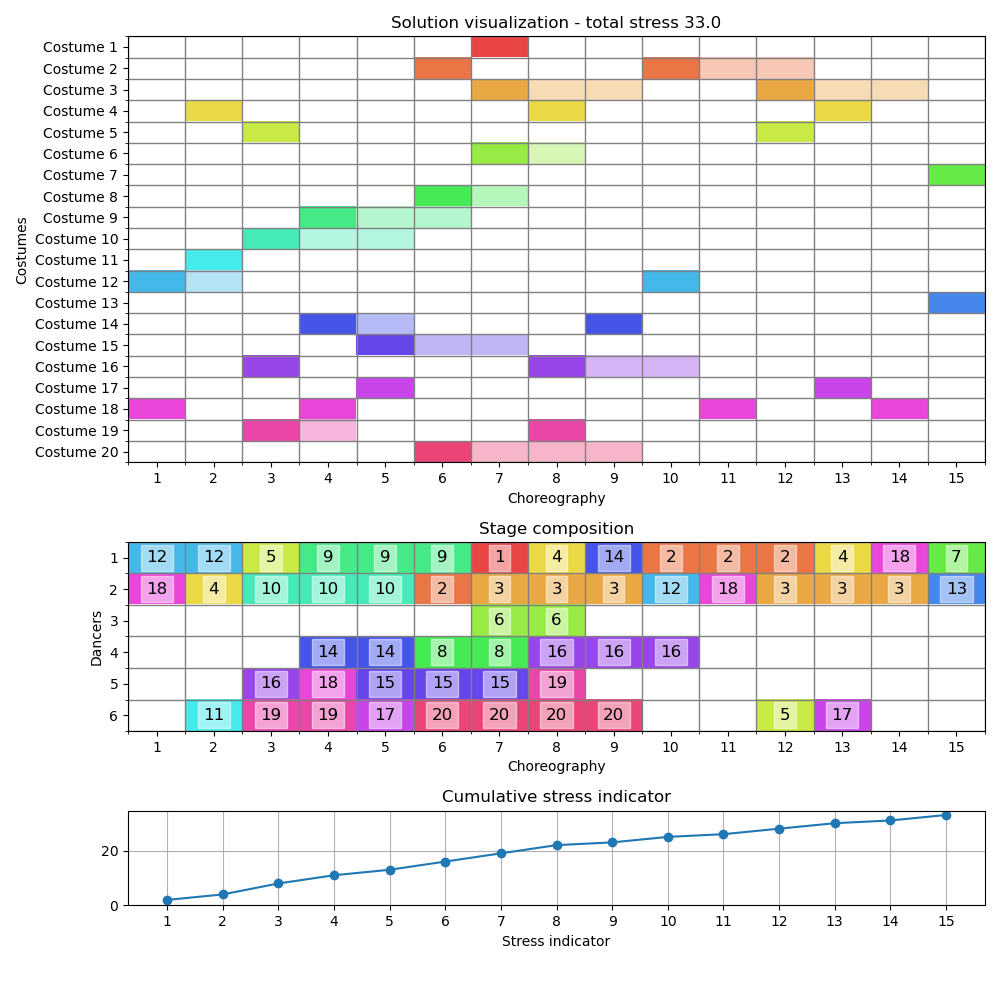
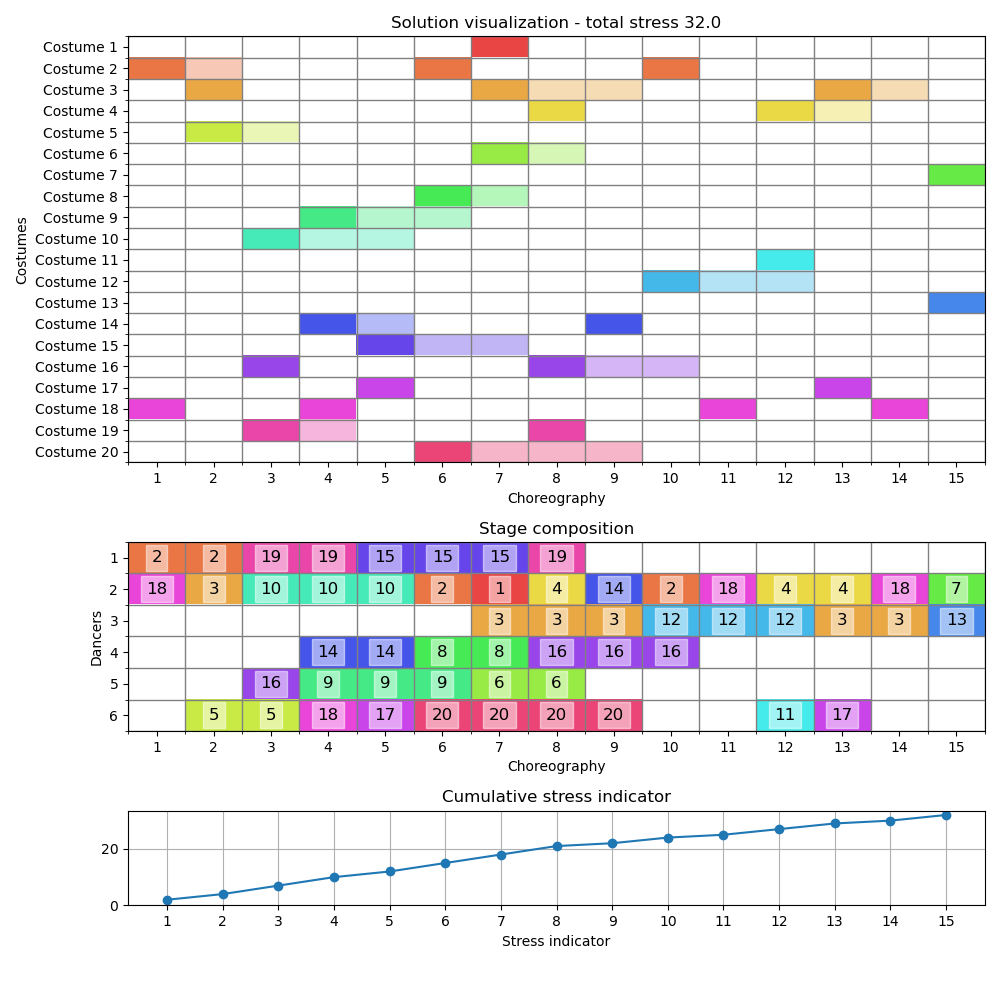
BVNS

diff --git a/solver_advanced.py b/solver_advanced.py
@@ -1,8 +1,8 @@
 from utils import *
 import random
 from copy import deepcopy
+from time import time
 import random
-from tqdm import tqdm
 from itertools import combinations
 
 
@@ -42,7 +42,7 @@ def backstage_neighborhood(sol: CustomSolution):
     admissible_indices = [coord + [0]
                           for coord in np.transpose(np.nonzero((np.sum(cc_mat, axis=0) - sol.n_dancers)*(1-cc_mat))).tolist()]
 
-    # 1 facultatifs à l'aide de self.choreographies_order
+    # On ajoute les indices des costumes facultatifs pour chaque chorégraphie (costumes en coulisse)
     for i, c in enumerate(sol.choreographies_order):
         admissible_indices += [[idx, i, 1] for idx in np.nonzero((1- sol.initial_cc_mat[:, c]) * cc_mat[:, i])[0].tolist()]
 
@@ -67,39 +67,72 @@ def solve(instance: Instance) -> Solution:
     Returns:
         Solution: the generated solution
     """
+    # Métriques de temps d'exécution
+    t0 = time()
+    iteration_duration = 0
+
+    if 'A' in instance.filepath:
+        time_credit = 120
+    elif 'D' in instance.filepath:
+        time_credit = 900
+    else:
+        time_credit = 600
 
     n_dancers, n_costumes = instance.n_dancers, instance.ncostumes
     sol = CustomSolution(instance.costumes_choreographies_matrix, n_dancers = n_dancers)
 
     neighborhoods = [dance_permutation_neighborhood, backstage_neighborhood]
 
-    k = 0
+    while ((time()-t0) + iteration_duration) < time_credit - 5:
+        # Instant du début de l'itération
+        t1 = time()
 
-    while k < 2:
-        # s' = argmin du voisinage actuel
-        operations_and_scores = [[s[0], instance.objective_score(Solution(s[1]))] # [encodage d'opération, score]
-                                 for s in neighborhoods[k](sol)]
-        
-        #print(operations_and_scores)
-        optimal_operation, _ = operations_and_scores[np.argmin([o_s[1] for o_s in operations_and_scores])]
+        k = 0
+        while k < 2:
+            # s' = argmin du voisinage actuel
+            operations_and_scores = [[s[0], instance.objective_score(Solution(s[1]))] # [encodage d'opération, score]
+                                    for s in neighborhoods[k](sol)]
+            
+            optimal_operation, optimal_score = random.choice(operations_and_scores)
 
-        if k == 0: # permutation des danses
-            dance1, dance2 = optimal_operation
-            new_sol = deepcopy(sol)
-            new_sol.raw[:, [dance2, dance1]] = new_sol.raw[:, [dance1, dance2]]
-            new_sol.choreographies_order[dance2], new_sol.choreographies_order[dance1] = new_sol.choreographies_order[dance1], new_sol.choreographies_order[dance2]
-        else:      # costume en coulisses
-            row, col, flip = optimal_operation
-            new_sol = deepcopy(sol)
-            new_sol.raw[row, col] = 1 - flip
+            if k == 0: # permutation des danses
+                dance1, dance2 = optimal_operation
+                new_sol = deepcopy(sol)
+                new_sol.raw[:, [dance2, dance1]] = new_sol.raw[:, [dance1, dance2]]
+                new_sol.choreographies_order[dance2], new_sol.choreographies_order[dance1] = new_sol.choreographies_order[dance1], new_sol.choreographies_order[dance2]
+            else:      # costume en coulisses
+                row, col, flip = optimal_operation
+                new_sol = deepcopy(sol)
+                new_sol.raw[row, col] = 1 - flip
             
 
-        # s,k = neighborhood_change(s, s', k)
-        if instance.objective_score(new_sol) < instance.objective_score(sol):
-            sol = new_sol
-            k = 0
-        else:
-            k += 1
+            # Hill climbing avec dance_permutation_neighborhood jusqu'à convergence
+            hc_converged = False
+            while not hc_converged:
+                hc_operations_and_scores = [[s[0], instance.objective_score(Solution(s[1]))]
+                                            for s in dance_permutation_neighborhood(new_sol)]
+                
+                best_neighbor_operation, best_neighbor_score = hc_operations_and_scores[np.argmin([o_s[1] for o_s in hc_operations_and_scores])]
+
+                if best_neighbor_score < optimal_score:
+                    optimal_score = best_neighbor_score
+
+                    dance1, dance2 = best_neighbor_operation
+                    new_sol = deepcopy(new_sol)
+                    new_sol.raw[:, [dance2, dance1]] = new_sol.raw[:, [dance1, dance2]]
+                    new_sol.choreographies_order[dance2], new_sol.choreographies_order[dance1] = new_sol.choreographies_order[dance1], new_sol.choreographies_order[dance2]
+                else:
+                    hc_converged = True
+            
+
+            # s,k = neighborhood_change(s, s', k)
+            if instance.objective_score(new_sol) < instance.objective_score(sol):
+                sol = new_sol
+                k = 0
+            else:
+                k += 1
+        
+        iteration_duration = time() - t1
     
 
     return sol
